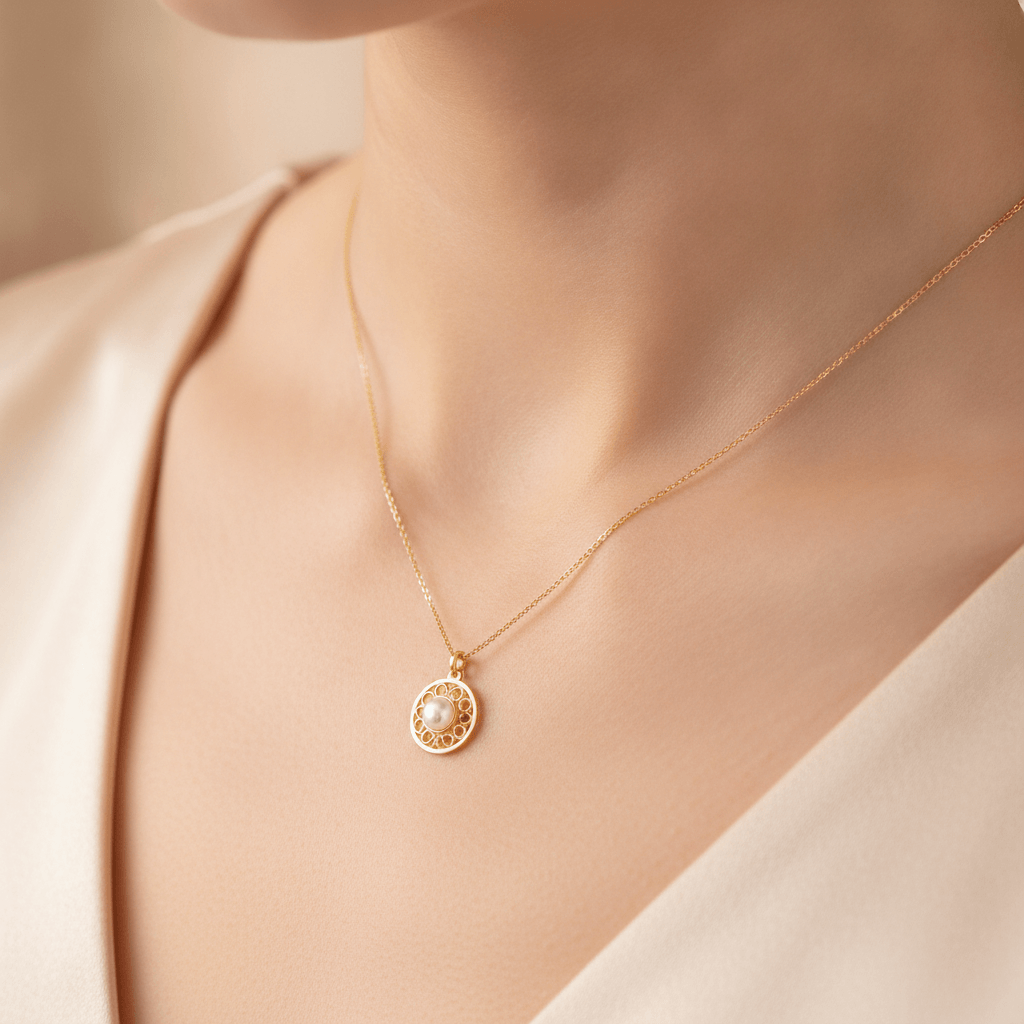
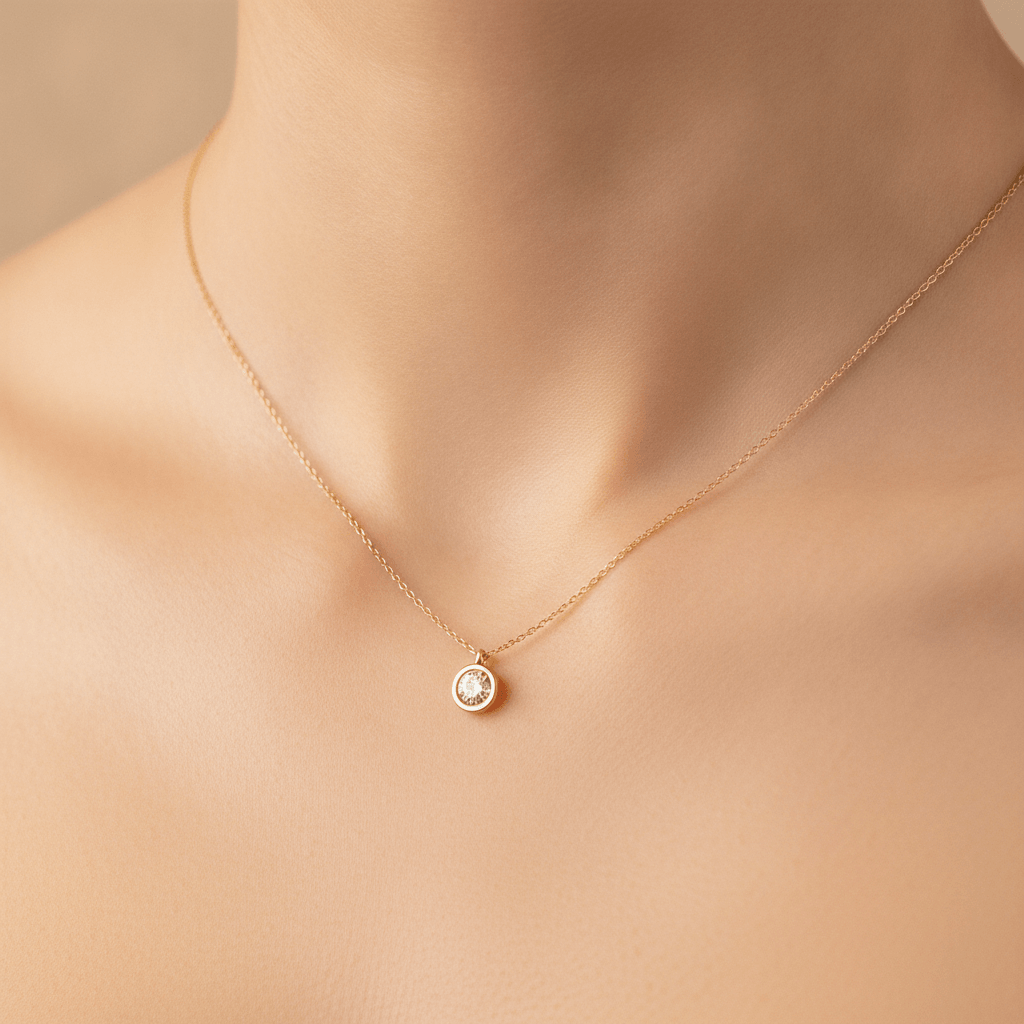
feat(accessories): 주얼리 착용컷 얼굴배제/모델선택 분리 + On Model 신설
■ Worn Cut = 얼굴 완전 배제(제품중심)
- On Ears/On Neck 타이트 크롭 + face/eyes/nose/lips/portrait 네거티브
- 부모 rationale/negative도 faceless 명시, medium 뷰티샷 제거

■ On Model = 신규 패밀리(모델 얼굴 선택)
- category "On Model", meta.picker='model' → 모달 모델 로스터80+배경 픽커(studiomodel 패턴)
- ◈5, 자식 컷 없음. negative는 'distorted face'만(일반 얼굴 허용)
- taxonomy On Model 콘텐츠타입, themes DEFAULT_OFFICIAL/THEME_MAP, studio m.picker 패스스루

■ 썸네일: on-model 신규 + on-ears/on-neck 얼굴배제로 재생성(17장)
■ 캐시 bump: recipes.generated v16·themes v7·taxonomy v8
■ drift-guard OK ✓ (FE/계약/_CATALOG/_STATUS 170, accessories:4)

diff --git a/src/recipes/seeds/recipes.accessories.v2.js b/src/recipes/seeds/recipes.accessories.v2.js
@@ -204,11 +204,11 @@ module.exports = [
     "output_type": "image_set",
     "credit_cost": 3,
     "sort_order": 6,
-    "rationale": "Show your jewelry being worn — no photoshoot. Pick the body zone that fits your piece (hand, neck, ears or wrist) and get natural on-body shots with the exact piece locked to the reference. The default zone is on-hand.",
+    "rationale": "Show your jewelry being worn — no photoshoot, no face. Pick the body zone that fits your piece (hand, neck, ears or wrist) and get natural on-body crops with the exact piece locked to the reference. Faceless by design; for a shot with a chosen model's face use 'Jewelry On Model'. The default zone is on-hand.",
     "meta": {
       "cuts": ["jewelry-on-hand", "jewelry-on-neck", "jewelry-on-ears", "jewelry-on-wrist"],
       "flags": ["experimental", "needs_human_review"],
-      "render_notes": "On-body composite: the chosen body zone is generated wearing the uploaded piece (no model roster). High AI-risk on hands/anatomy — verify correct fingers, ears and skin, and that the piece did not morph, before delivery."
+      "render_notes": "Faceless on-body composite: the chosen body zone is generated wearing the uploaded piece (no model, no face). High AI-risk on hands/anatomy — verify correct fingers, ears and skin, no face in frame, and that the piece did not morph, before delivery. (Face variant with model picker = 'Jewelry On Model'.)"
     },
     "config": {
       "schema_version": 1,
@@ -230,8 +230,8 @@ module.exports = [
           "color:neutral_true",
           "texture:natural_skin"
         ],
-        "extra_positive": "premium on-body jewelry photography, the exact uploaded piece worn naturally on a realistic well-groomed body part, the piece locked to the reference — metal, gemstones and setting identical with no morph or drift, natural true-to-life skin with soft flattering light, elegant relaxed pose, shallow depth of field keeping the jewelry tack-sharp, clean neutral background",
-        "extra_negative": "warped or melted metal, mismatched stone, deformed or extra fingers, malformed hands, fused earlobes, distorted anatomy, plastic skin, blemishes, floating jewelry, doubled piece, harsh blown highlights, cluttered background, logos, text, watermark"
+        "extra_positive": "premium on-body jewelry photography, the exact uploaded piece worn naturally on a realistic well-groomed body part, cropped tightly to the body zone with no face in frame, the piece locked to the reference — metal, gemstones and setting identical with no morph or drift, natural true-to-life skin with soft flattering light, elegant relaxed pose, shallow depth of field keeping the jewelry tack-sharp, clean neutral background",
+        "extra_negative": "face, eyes, nose, lips, mouth, portrait, full head, warped or melted metal, mismatched stone, deformed or extra fingers, malformed hands, fused earlobes, distorted anatomy, plastic skin, blemishes, floating jewelry, doubled piece, harsh blown highlights, cluttered background, logos, text, watermark"
       },
       "shot_strategy": "list",
       "shots": [
@@ -281,22 +281,22 @@ module.exports = [
     "output_type": "image_set",
     "credit_cost": 3,
     "sort_order": 8,
-    "meta": { "flags": ["experimental", "needs_human_review"], "render_notes": "Verify natural collarbone/décolletage anatomy and that the chain drapes correctly without morphing the pendant." },
-    "rationale": "Necklace or pendant worn on the neckline and décolletage.",
+    "meta": { "flags": ["experimental", "needs_human_review"], "render_notes": "Faceless — framing on the neck and collarbone only, chin and face cropped out. Verify natural collarbone/décolletage anatomy and that the chain drapes correctly without morphing the pendant. (Face variant = 'Jewelry On Model'.)" },
+    "rationale": "Necklace or pendant worn on the neckline — cropped to the neck, no face shown.",
     "config": {
       "schema_version": 1,
       "mode": "product",
       "parent_id": "jewelry-worn-cut",
       "look": {
-        "extra_positive": "elegant on-neck jewelry photography, the uploaded necklace or pendant draped naturally on a smooth neckline and décolletage, the chain following the collarbone with the pendant centered and tack-sharp, locked to the reference, soft flattering light, true skin texture, clean minimal styling, shallow depth of field",
-        "extra_negative": "distorted neck anatomy, floating necklace, broken or morphed chain, doubled pendant, mismatched stone, plastic skin, harsh shadow, cluttered background, visible face distortion",
-        "notes": "framing centered on the neck and décolletage — face optional and softly cropped"
+        "extra_positive": "elegant on-neck jewelry photography, the uploaded necklace or pendant draped naturally on a smooth neckline and collarbone, framing cropped to the neck and décolletage with the chin and face out of frame, the chain following the collarbone with the pendant centered and tack-sharp, locked to the reference, soft flattering light, true skin texture, clean minimal styling, shallow depth of field",
+        "extra_negative": "face, chin, jaw, eyes, nose, lips, mouth, portrait, full head, distorted neck anatomy, floating necklace, broken or morphed chain, doubled pendant, mismatched stone, plastic skin, harsh shadow, cluttered background",
+        "notes": "framing on the neck and collarbone only — chin and face cropped out of frame"
       },
       "shot_strategy": "list",
       "shots": [
-        { "scene": "clean neutral background, soft light", "pose": "neckline front-on, chain draped, pendant centered", "composition": "closeup" },
-        { "scene": "soft gradient, gentle shadow", "pose": "slight three-quarter turn showing chain flow", "composition": "closeup" },
-        { "scene": "soft-focus lifestyle backdrop", "pose": "relaxed pose featuring the necklace on the décolletage", "composition": "medium_shot" },
+        { "scene": "clean neutral background, soft light", "pose": "neckline front-on, chain draped, pendant centered, no face", "composition": "closeup" },
+        { "scene": "soft gradient, gentle shadow", "pose": "slight turn showing chain flow across the collarbone", "composition": "closeup" },
+        { "scene": "neutral backdrop, neck-only crop", "pose": "décolletage featuring the necklace, cropped below the chin", "composition": "closeup" },
         { "scene": "neutral background, tight crop", "pose": "macro of the pendant resting on the skin", "composition": "macro" }
       ]
     }
@@ -311,22 +311,22 @@ module.exports = [
     "output_type": "image_set",
     "credit_cost": 3,
     "sort_order": 9,
-    "meta": { "flags": ["experimental", "needs_human_review"], "render_notes": "Ears are high AI-risk — verify natural single earlobe anatomy and that the earring is not duplicated or fused to the ear." },
-    "rationale": "Earrings worn on the ear — side-profile beauty framing.",
+    "meta": { "flags": ["experimental", "needs_human_review"], "render_notes": "Faceless — tight crop on the ear only, no face in frame. Verify natural single earlobe anatomy and that the earring is not duplicated or fused to the ear. (Face variant = 'Jewelry On Model'.)" },
+    "rationale": "Earrings worn on the ear — tight crop, no face shown.",
     "config": {
       "schema_version": 1,
       "mode": "product",
       "parent_id": "jewelry-worn-cut",
       "look": {
-        "extra_positive": "elegant on-ear jewelry photography, the uploaded earring worn on a natural well-formed earlobe in a graceful side-profile beauty crop, the earring tack-sharp and locked to the reference, hair softly tucked back to reveal the ear, soft flattering light, true skin texture, clean neutral background, shallow depth of field",
-        "extra_negative": "deformed ear, fused earlobe, doubled earring, extra piercings, morphed metal, mismatched stone, plastic skin, hair covering the earring, harsh shadow, cluttered background",
-        "notes": "tight side-profile framing on the ear and jawline"
+        "extra_positive": "elegant on-ear jewelry photography, the uploaded earring worn on a natural well-formed earlobe, framed as an extreme tight crop on the ear only with no face in the frame, hair softly tucked back to reveal the ear, the earring tack-sharp and locked to the reference, soft flattering light, true skin texture, clean neutral background, shallow depth of field",
+        "extra_negative": "face, eyes, nose, lips, mouth, cheek, chin, portrait, full head, deformed ear, fused earlobe, doubled earring, extra piercings, morphed metal, mismatched stone, plastic skin, hair covering the earring, harsh shadow, cluttered background",
+        "notes": "extreme tight crop on the ear and earlobe only — no face visible in frame"
       },
       "shot_strategy": "list",
       "shots": [
-        { "scene": "clean neutral background, soft key light", "pose": "side profile of the ear presenting the earring", "composition": "closeup" },
-        { "scene": "soft gradient, gentle shadow", "pose": "slight turn showing the earring drop and movement", "composition": "closeup" },
-        { "scene": "soft-focus lifestyle backdrop", "pose": "relaxed three-quarter beauty framing with earring", "composition": "medium_shot" },
+        { "scene": "clean neutral background, soft key light", "pose": "tight crop of the ear presenting the earring, no face", "composition": "closeup" },
+        { "scene": "soft gradient, gentle shadow", "pose": "slight turn showing the earring drop, cropped to the ear", "composition": "closeup" },
+        { "scene": "neutral backdrop, ear-only crop", "pose": "earring movement detail against the lobe", "composition": "closeup" },
         { "scene": "neutral background, tight crop", "pose": "macro of the earring on the lobe", "composition": "macro" }
       ]
     }
@@ -357,6 +357,58 @@ module.exports = [
         { "scene": "soft gradient, gentle shadow", "pose": "wrist turned showing the piece wrapping around", "composition": "closeup" },
         { "scene": "soft-focus lifestyle backdrop", "pose": "hand resting naturally, bracelet catching light", "composition": "medium_shot" },
         { "scene": "neutral background, tight crop", "pose": "macro of the bracelet on the wrist", "composition": "macro" }
+      ]
+    }
+  },
+
+  // ════════════════════════════════════════════════════════════════════════
+  // 패밀리 2b · Jewelry On Model (모델 착용컷) — 얼굴 O, 모델 픽커 (studiomodel 패턴)
+  //   meta.picker='model' → Studio가 모델 로스터(80) + 배경 픽커 렌더. 선택 모델 얼굴이 나옴.
+  //   자식 컷 없음(부모 1장). 과금 = full 모델(얼굴) 합성 → ◈5(studiomodel과 동일).
+  // ════════════════════════════════════════════════════════════════════════
+  {
+    "mode": "product",
+    "vertical": "accessories",
+    "category": "On Model",
+    "name": "Jewelry On Model",
+    "output_type": "image_set",
+    "credit_cost": 5,
+    "sort_order": 11,
+    "rationale": "Put your jewelry on a real-looking model — face and all. Upload one piece, pick a house model and a background, and get aspirational beauty-portrait shots with the model wearing your jewelry. The exact piece is locked to the reference; the chosen model's face is shown. For a faceless body-part crop use 'Jewelry Worn Cut' instead.",
+    "meta": {
+      "picker": "model",
+      "flags": ["experimental", "needs_human_review"],
+      "render_notes": "On-model composite with face: the selected roster model image is passed as an identity reference alongside the uploaded jewelry; the chosen background (studio default or a scene) is injected. The model wears the piece (earrings on ears, necklace on neckline, ring on hand near the face). Verify no jewelry morph, correct anatomy (hands/ears) and no identity drift from the model reference before delivery."
+    },
+    "config": {
+      "schema_version": 1,
+      "mode": "product",
+      "output": {
+        "type": "image_set",
+        "count": 4,
+        "aspect_ratio": "4:5"
+      },
+      "subject": {
+        "type": "product",
+        "reference_strategy": "product_composite",
+        "min_refs": 1
+      },
+      "look": {
+        "style_preset": "Fashion",
+        "attributes": [
+          "lighting:soft_box_key_plus_rim",
+          "color:neutral_true",
+          "texture:natural_skin"
+        ],
+        "extra_positive": "premium on-model beauty jewelry photography, the selected model wearing the uploaded jewelry, the exact same piece locked to the reference — metal, gemstones and setting identical with no morph or drift, natural realistic fit on the body (earrings on the ear, necklace on the neckline, ring or bracelet on the hand), relaxed natural model pose and soft expression, flattering beauty light, the jewelry tack-sharp with shallow depth of field, true-to-life skin, clean editorial styling, a single well-formed pair of hands with exactly five natural fingers each when hands are shown",
+        "extra_negative": "warped or melted metal, mismatched stone, doubled piece, deformed or extra fingers, malformed hands, fused or deformed ears, distorted face, identity drift from the model reference, plastic skin, floating jewelry, blown highlights, cluttered distracting background, logos, text, watermark"
+      },
+      "shot_strategy": "list",
+      "shots": [
+        { "scene": "chosen setting", "pose": "model beauty portrait front-facing, relaxed, featuring the worn jewelry", "composition": "medium_shot" },
+        { "scene": "chosen setting", "pose": "model at a slight three-quarter turn showing the piece in wear", "composition": "medium_shot" },
+        { "scene": "chosen setting", "pose": "tighter beauty crop on the worn area with the model's expression", "composition": "closeup" },
+        { "scene": "chosen setting", "pose": "editorial portrait stance featuring the jewelry", "composition": "medium_shot" }
       ]
     }
   },

diff --git a/public/js/themes.js b/public/js/themes.js
@@ -13,7 +13,7 @@
   window.OFFICIAL_ONLY_THEMES = ['productcut', 'nail-base', 'nail-template', 'accessories'];
   // 기본 제공 공식 recipe — Store 구매/담기 없이 항상 Studio에 노출(◈8 프리미엄 공식과 구분).
   //   백엔드도 price_credits=0이라 생성 구매게이트(402) 없음. Studio는 소유 무관 OFFICIAL_RECIPES에 포함시켜 노출.
-  window.DEFAULT_OFFICIAL_RECIPES = ['product-cut', 'model-cut', 'product-hero', 'jewelry-product-cut', 'jewelry-worn-cut', 'jewelry-hero'];
+  window.DEFAULT_OFFICIAL_RECIPES = ['product-cut', 'model-cut', 'product-hero', 'jewelry-product-cut', 'jewelry-worn-cut', 'jewelry-on-model', 'jewelry-hero'];
   // Library 필터 그룹(비겹침) — CAT_THEMES에서 파생(단일소스).
   window.CAT_GROUPS = [['Influencer', window.CAT_THEMES.Influencer], ['Shopping', window.CAT_THEMES.Shopping]];
   // 공식 recipe→theme 매핑(migrate.js OFFICIAL_THEME 미러). 공식은 recipe 카드라 themes 필드가 없어 studio가 이걸로 주입.
@@ -22,7 +22,7 @@
     'ring-editorial-campaign': 'jewelry', 'bracelet-editorial-campaign': 'jewelry',
     'top-down-hero': 'food', 'void-hero-cut': 'tech', 'pet-product-hero': 'pet',
     'product-cut': 'productcut',
-    'jewelry-product-cut': 'accessories', 'jewelry-worn-cut': 'accessories', 'jewelry-hero': 'accessories',
+    'jewelry-product-cut': 'accessories', 'jewelry-worn-cut': 'accessories', 'jewelry-on-model': 'accessories', 'jewelry-hero': 'accessories',
   };
   // 보이는 테마 = 노출 매크로그룹(Shopping, Influencer는 flag) 안의 slug만. 숨긴 테마면 false → 그 테마에만 속한 콘텐츠는 Studio·Library 어디서도 안 보임. 커스텀 테마는 id라 여기 안 옴(항상 visible).
   window.isThemeVisible = function (slug) {

diff --git a/public/js/recipes.generated.js b/public/js/recipes.generated.js
@@ -2,13 +2,13 @@
  * 생성: node scripts/export_recipe_cards.js
  * 소스: docs/섹션명령서/_card_contract.proposed.json (카드 계약 · 시드 credit_cost 단일원)
  * 카드 cost=시드 credit_cost (pricing.js 아님). emoji/grad=FE 결정론 파생(A2c). guards=PREVIEW 전용(resolver L148 미착지 → '보장' 카피 금지).
- * 템플릿이 169→~93 재export하면 이 파일만 재생성하면 studio가 자동 반영.
+ * 템플릿이 170→~93 재export하면 이 파일만 재생성하면 studio가 자동 반영.
  */
 (function(){
   var R = {
   "generatedFrom": "_card_contract.proposed.json",
-  "total": 169,
-  "new_count": 136,
+  "total": 170,
+  "new_count": 137,
   "overlay_count": 7,
   "guarded_count": 118,
   "provisional_count": 17,
@@ -18,10 +18,10 @@
     "pet"
   ],
   "drift_guard": {
-    "fe_total": 169,
-    "contract_total": 169,
-    "catalog_total": 169,
-    "status_total": 169,
+    "fe_total": 170,
+    "contract_total": 170,
+    "catalog_total": 170,
+    "status_total": 170,
     "ok": true
   },
   "cards": {
@@ -3802,6 +3802,25 @@
             "preview": null
           }
         ]
+      },
+      {
+        "id": "jewelry-on-model",
+        "cat": "On Model",
+        "name": "Jewelry On Model",
+        "type": "image",
+        "cost": 5,
+        "new": true,
+        "provisional": false,
+        "flags": [
+          "experimental",
+          "needs_human_review"
+        ],
+        "text_overlay": false,
+        "guards": [],
+        "held": true,
+        "emoji": "🖼",
+        "grad": "linear-gradient(150deg,#ff9a6b,#ffce7a)",
+        "picker": "model"
       },
       {
         "id": "jewelry-hero",

diff --git a/public/studio.html b/public/studio.html
@@ -991,9 +991,9 @@
   #imgModal .img-dl:hover{background:var(--accent);border-color:var(--accent)}
 </style>
 
-<script src="/js/recipes.generated.js?v=15"></script>
-<script src="/js/themes.js?v=6"></script>
-<script src="/js/taxonomy.js?v=7"></script>
+<script src="/js/recipes.generated.js?v=16"></script>
+<script src="/js/themes.js?v=7"></script>
+<script src="/js/taxonomy.js?v=8"></script>
 <script src="/js/models.roster.js?v=1"></script>
 <script src="/js/backgrounds.roster.js?v=1"></script>
 <script>
@@ -1050,8 +1050,9 @@ function buildTemplates(){
     if(!m.preview)m.preview='/img/producthero/dewy-glass.jpg'; // 카드 썸네일=기본 스타일
     shopping.push(m);
   });
-  (C.accessories||[]).forEach(c=>{ // 오피셜 Accessories(주얼리 v1) — 3패밀리 부모(Product Cut·Worn Cut·Hero), 각 파라미터형 컷 보유.
-    const m=mk(c,c.cat,'accessories'); // cat=recipe.category(콘텐츠타입 라벨) → taxonomy Accessories>Product Cut/Worn Cut/Hero.
+  (C.accessories||[]).forEach(c=>{ // 오피셜 Accessories(주얼리 v1) — 부모 패밀리(Product Cut·Worn Cut·On Model·Hero), 컷/모델픽커 보유.
+    const m=mk(c,c.cat,'accessories'); // cat=recipe.category(콘텐츠타입 라벨) → taxonomy Accessories>Product Cut/Worn Cut/On Model/Hero.
+    if(c.picker)m.picker=c.picker; // 'model' → On Model은 컷 대신 모달 모델 그리드(studiomodel과 동일)
     if(m.cuts)m.cuts.forEach(ct=>{ if(!ct.preview)ct.preview='/img/accessories/'+ct.id+'.png'; }); // 컷 썸네일 컨벤션
     if(!m.preview)m.preview='/img/accessories/'+c.id+'.png'; // 카드 썸네일=부모 id
     shopping.push(m);

diff --git a/public/js/taxonomy.js b/public/js/taxonomy.js
@@ -60,7 +60,8 @@
         verticals: ['accessories'],
         contentTypes: [
           { slug: 'product-cut', label: 'Product Cut', match: { category: ['Product Cut'] } }, // 제품컷(모델없음)
-          { slug: 'worn-cut',    label: 'Worn Cut',    match: { category: ['Worn Cut'] } },     // 착용컷(부위 파라미터)
+          { slug: 'worn-cut',    label: 'Worn Cut',    match: { category: ['Worn Cut'] } },     // 착용컷(부위 파라미터·얼굴 배제)
+          { slug: 'on-model',    label: 'On Model',    match: { category: ['On Model'] } },      // 모델 착용컷(모델 픽커·얼굴 O)
           { slug: 'hero',        label: 'Hero',        match: { category: ['Hero'] } },          // 프리미엄 히어로
         ],
       },

diff --git a/public/store.html b/public/store.html
@@ -6,7 +6,7 @@
 <meta name="viewport" content="width=device-width, initial-scale=1.0" />
 <title>Doppia · Store</title>
 <script src="/js/flags.js" defer></script>
-<script src="/js/themes.js?v=6"></script><!-- (2026-07-03) isThemeVisible 공용 — 테마 칩을 Studio/Library와 동일하게 좁힘 -->
+<script src="/js/themes.js?v=7"></script><!-- (2026-07-03) isThemeVisible 공용 — 테마 칩을 Studio/Library와 동일하게 좁힘 -->
 <link rel="icon" type="image/png" sizes="32x32" href="/favicon-32.png" />
 <link rel="stylesheet" href="/css/theme.css?v=6" />
 <script src="/js/i18n.js?v=9" defer></script>

diff --git a/scripts/generate_accessories_thumbs.js b/scripts/generate_accessories_thumbs.js
@@ -30,6 +30,7 @@ const PROD = {
   'jewelry-on-neck':      'a delicate unbranded gold pendant necklace',
   'jewelry-on-ears':      'a pair of unbranded gold drop earrings',
   'jewelry-on-wrist':     'an unbranded gold tennis bracelet',
+  'jewelry-on-model':     'a natural-looking female fashion model wearing elegant unbranded gold drop earrings and a delicate gold necklace',
   'jewelry-hero':         'an elegant unbranded gold diamond ring',
   'jewelry-noir-gold':    'an elegant unbranded gold diamond ring',
   'jewelry-marble-plinth':'an elegant unbranded gold diamond ring',

diff --git a/public/creation.html b/public/creation.html
@@ -6,7 +6,7 @@
 <meta name="viewport" content="width=device-width, initial-scale=1.0" />
 <title>Doppia · Creation</title>
 <script src="/js/flags.js" defer></script>
-<script src="/js/themes.js?v=6"></script>
+<script src="/js/themes.js?v=7"></script>
 <link rel="icon" type="image/png" sizes="32x32" href="/favicon-32.png" />
 <link rel="stylesheet" href="/css/theme.css?v=6" />
 <script src="/js/i18n.js?v=9" defer></script>

diff --git a/public/gallery.html b/public/gallery.html
@@ -237,7 +237,7 @@
 
 <!-- LOCAL-ONLY (do not push): 옛 기록 템플릿 추정용 시그니처 맵 -->
 <script src="/js/recipe_sig.local.js"></script>
-<script src="/js/themes.js?v=6"></script>
+<script src="/js/themes.js?v=7"></script>
 <script>
 // ═══ 실제 데이터 연결: GET /api/generate/results ═══
 let ITEMS=[];

diff --git a/docs/섹션명령서/_STATUS.md b/docs/섹션명령서/_STATUS.md
@@ -1,6 +1,6 @@
 # 레시피 종합 현황 (자동생성 · `node scripts/consolidate_recipes.js`)
 
-**10/16 섹션 OK · 총 169개 템플릿**
+**10/16 섹션 OK · 총 170개 템플릿**
 
 | 섹션 | 상태 | 개수 | 파일 |
 |---|---|---|---|
@@ -19,7 +19,7 @@
 | productcut (제품컷) | OK | 1 | `recipes.productcut.v2.js` |
 | studiomodel (스튜디오 모델컷) | OK | 1 | `recipes.studiomodel.v2.js` |
 | producthero (제품 히어로(화장품)) | OK | 1 | `recipes.producthero.v2.js` |
-| accessories (악세서리(주얼리)) | OK | 3 | `recipes.accessories.v2.js` |
+| accessories (악세서리(주얼리)) | OK | 4 | `recipes.accessories.v2.js` |
 
 ## 이슈
 **influencer**
@@ -146,8 +146,9 @@ _없음_
 **accessories**
 - Jewelry Product Cut [experimental,needs_human_review]
 - Jewelry Worn Cut [experimental,needs_human_review]
+- Jewelry On Model [experimental,needs_human_review]
 - Jewelry Hero [experimental,needs_human_review]
-- 파라미터형: 부모 3 + 컷 13 (개수/가격사다리 휴리스틱 면제)
+- 파라미터형: 부모 4 + 컷 13 (개수/가격사다리 휴리스틱 면제)
 
 ## 🅣 텍스트 오버레이 (text_overlay)
 **beauty**: Before/After Result Reel · Ingredient Claim Card

diff --git a/public/img/accessories/README.md b/public/img/accessories/README.md
@@ -11,11 +11,12 @@
 | | 컷 · Floating | `jewelry-floating.png` | 〃 |
 | | 컷 · Pedestal | `jewelry-pedestal.png` | 〃 |
 | | 컷 · Macro | `jewelry-macro-detail.png` | 〃 |
-| **Worn Cut** | 부모 카드 | `jewelry-worn-cut.png` | 그리드 카드 썸네일 |
+| **Worn Cut** (얼굴 배제) | 부모 카드 | `jewelry-worn-cut.png` | 그리드 카드 썸네일 |
 | | 컷 · On Hand | `jewelry-on-hand.png` | 모달 컷 선택 미리보기 |
 | | 컷 · On Neck | `jewelry-on-neck.png` | 〃 |
 | | 컷 · On Ears | `jewelry-on-ears.png` | 〃 |
 | | 컷 · On Wrist | `jewelry-on-wrist.png` | 〃 |
+| **On Model** (모델 픽커·얼굴 O) | 부모 카드 | `jewelry-on-model.png` | 그리드 카드 썸네일 (컷 없음, 모달=모델/배경 픽커) |
 | **Hero** | 부모 카드 | `jewelry-hero.png` | 그리드 카드 썸네일 |
 | | 스타일 · Noir Gold | `jewelry-noir-gold.png` | 모달 스타일 선택 미리보기 |
 | | 스타일 · Marble Plinth | `jewelry-marble-plinth.png` | 〃 |
